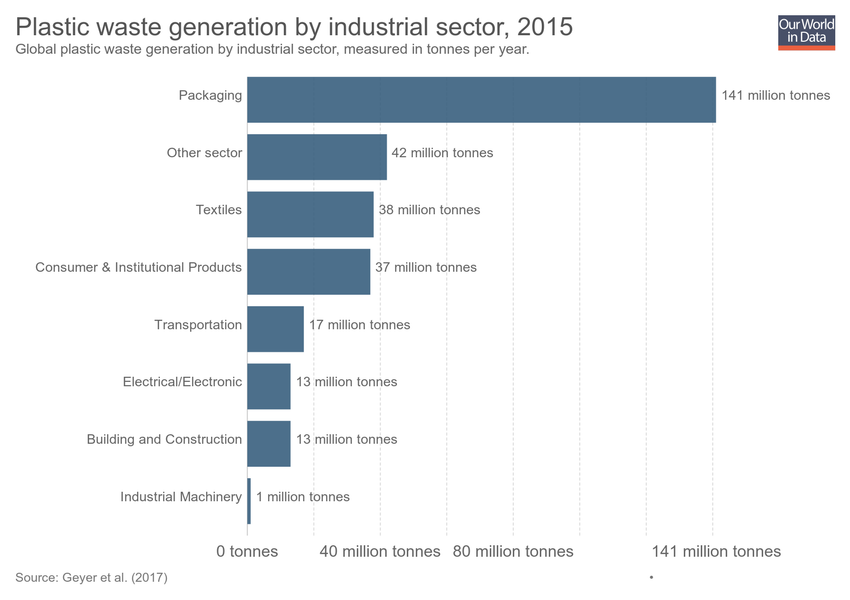
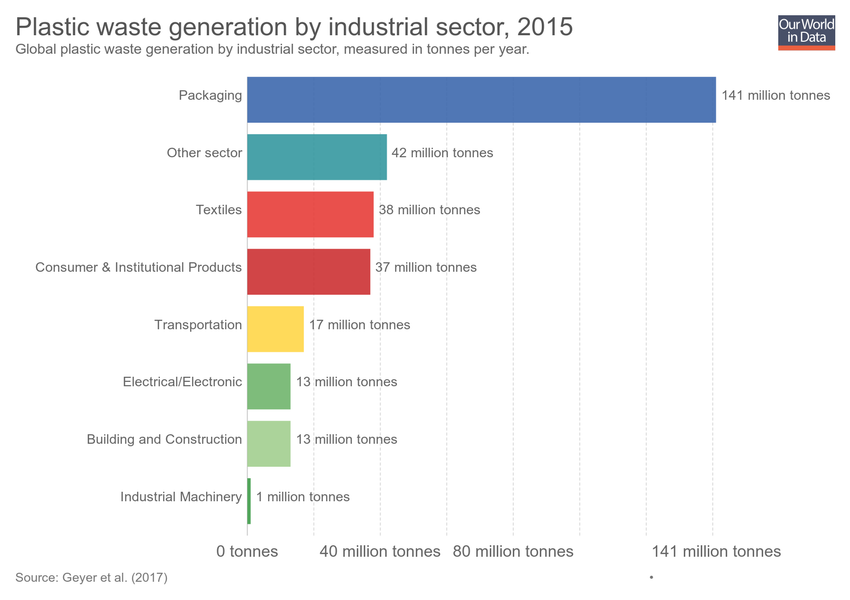
Updating chart plastic-waste-by-sector

Changed region(s): [[0.2753, 0.12, 0.8565, 0.78], [0.2753, 0.81, 0.3059, 0.87]]

diff --git a/grapher/plastic-waste-by-sector.html b/grapher/plastic-waste-by-sector.html
@@ -1,4 +1,4 @@
-<!doctype html><html><head><meta name="viewport" content="width=device-width, initial-scale=1" /><title>Plastic waste generation by industrial sector - Our World in Data</title><meta name="description" content="Global plastic waste generation by industrial sector, measured in tonnes per year." /><link rel="canonical" href="https://ourworldindata.org/grapher/plastic-waste-by-sector" /><meta property="fb:app_id" content="1149943818390250" /><meta property="og:url" content="https://ourworldindata.org/grapher/plastic-waste-by-sector" /><meta property="og:title" content="Plastic waste generation by industrial sector" /><meta property="og:description" content="Global plastic waste generation by industrial sector, measured in tonnes per year." /><meta property="og:image" content="https://ourworldindata.org/grapher/exports/plastic-waste-by-sector.png?v=1" /><meta property="og:image:width" content="850" /><meta property="og:image:height" content="600" /><meta property="og:site_name" content="Our World in Data" /><meta name="twitter:card" content="summary_large_image" /><meta name="twitter:site" content="@OurWorldInData" /><meta name="twitter:creator" content="@OurWorldInData" /><meta name="twitter:title" content="Plastic waste generation by industrial sector" /><meta name="twitter:description" content="Global plastic waste generation by industrial sector, measured in tonnes per year." /><meta name="twitter:image" content="https://ourworldindata.org/grapher/exports/plastic-waste-by-sector.png?v=1" /><style>
+<!doctype html><html><head><meta name="viewport" content="width=device-width, initial-scale=1" /><title>Plastic waste generation by industrial sector - Our World in Data</title><meta name="description" content="Global plastic waste generation by industrial sector, measured in tonnes per year." /><link rel="canonical" href="https://ourworldindata.org/grapher/plastic-waste-by-sector" /><meta property="fb:app_id" content="1149943818390250" /><meta property="og:url" content="https://ourworldindata.org/grapher/plastic-waste-by-sector" /><meta property="og:title" content="Plastic waste generation by industrial sector" /><meta property="og:description" content="Global plastic waste generation by industrial sector, measured in tonnes per year." /><meta property="og:image" content="https://ourworldindata.org/grapher/exports/plastic-waste-by-sector.png?v=2" /><meta property="og:image:width" content="850" /><meta property="og:image:height" content="600" /><meta property="og:site_name" content="Our World in Data" /><meta name="twitter:card" content="summary_large_image" /><meta name="twitter:site" content="@OurWorldInData" /><meta name="twitter:creator" content="@OurWorldInData" /><meta name="twitter:title" content="Plastic waste generation by industrial sector" /><meta name="twitter:description" content="Global plastic waste generation by industrial sector, measured in tonnes per year." /><meta name="twitter:image" content="https://ourworldindata.org/grapher/exports/plastic-waste-by-sector.png?v=2" /><style>
         html, body {
             height: 100%;
             margin: 0;
@@ -20,8 +20,8 @@
         }
     </style><noscript><style>
                     figure { display: none !important; }
-                </style></noscript><link rel="stylesheet" href="https://ourworldindata.org/grapher/assets/commons.bundle.7bc7a3a90f15cac09df5.css" /><link rel="preload" href="/grapher/data/variables/97695.json?v=1" as="fetch" crossorigin /></head><body class="singleChart"><figure data-grapher-src="/grapher/plastic-waste-by-sector"></figure><noscript id="fallback"><img src="/grapher/exports/plastic-waste-by-sector.svg" /><p>Interactive visualization requires JavaScript</p></noscript><script src="https://cdn.polyfill.io/v2/polyfill.min.js?features=es6,fetch"></script><script src="https://ourworldindata.org/grapher/assets/commons.bundle.7bc7a3a90f15cac09df5.js"></script><script src="https://ourworldindata.org/grapher/assets/charts.bundle.7bc7a3a90f15cac09df5.js"></script><script>
-        var jsonConfig = {"map":{"projection":"World","colorSchemeLabels":[],"colorSchemeValues":[],"customNumericColors":[],"customCategoryColors":{},"customCategoryLabels":{},"customHiddenCategories":{}},"tab":"chart","slug":"plastic-waste-by-sector","type":"DiscreteBar","title":"Plastic waste generation by industrial sector","xAxis":{"scaleType":"linear"},"yAxis":{"min":0,"scaleType":"linear"},"version":1,"subtitle":"Global plastic waste generation by industrial sector, measured in tonnes per year.","hasMapTab":false,"stackMode":"absolute","dimensions":[{"display":{"unit":"tonnes","shortUnit":"tonnes","conversionFactor":1000000},"property":"y","variableId":97695}],"sourceDesc":"Geyer et al. (2017)","hasChartTab":true,"isPublished":true,"selectedData":[{"index":0,"entityId":37788},{"index":0,"entityId":37784},{"index":0,"entityId":37786},{"index":0,"entityId":37785},{"index":0,"entityId":37787},{"index":0,"entityId":37782},{"index":0,"entityId":37231},{"index":0,"entityId":37783}],"addCountryMode":"disabled","id":2894};
+                </style></noscript><link rel="stylesheet" href="https://ourworldindata.org/grapher/assets/commons.bundle.7bc7a3a90f15cac09df5.css" /><link rel="preload" href="/grapher/data/variables/97695.json?v=2" as="fetch" crossorigin /></head><body class="singleChart"><figure data-grapher-src="/grapher/plastic-waste-by-sector"></figure><noscript id="fallback"><img src="/grapher/exports/plastic-waste-by-sector.svg" /><p>Interactive visualization requires JavaScript</p></noscript><script src="https://cdn.polyfill.io/v2/polyfill.min.js?features=es6,fetch"></script><script src="https://ourworldindata.org/grapher/assets/commons.bundle.7bc7a3a90f15cac09df5.js"></script><script src="https://ourworldindata.org/grapher/assets/charts.bundle.7bc7a3a90f15cac09df5.js"></script><script>
+        var jsonConfig = {"id":2894,"map":{"projection":"World","colorSchemeLabels":[],"colorSchemeValues":[],"customNumericColors":[],"customCategoryColors":{},"customCategoryLabels":{},"customHiddenCategories":{}},"tab":"chart","slug":"plastic-waste-by-sector","type":"DiscreteBar","title":"Plastic waste generation by industrial sector","xAxis":{"scaleType":"linear"},"yAxis":{"min":0,"scaleType":"linear"},"version":2,"subtitle":"Global plastic waste generation by industrial sector, measured in tonnes per year.","hasMapTab":false,"stackMode":"absolute","dimensions":[{"display":{"unit":"tonnes","shortUnit":"tonnes","conversionFactor":1000000},"property":"y","variableId":97695}],"sourceDesc":"Geyer et al. (2017)","hasChartTab":true,"isPublished":true,"selectedData":[{"index":0,"entityId":37788},{"index":0,"entityId":37784},{"index":0,"entityId":37786},{"index":0,"entityId":37785},{"index":0,"entityId":37787},{"index":0,"entityId":37782},{"index":0,"entityId":37231},{"index":0,"entityId":37783}],"addCountryMode":"disabled","baseColorScheme":"stackedAreaDefault","invertColorScheme":true};
         var figure = document.getElementsByTagName("figure")[0];
         try {
             window.App = {};
